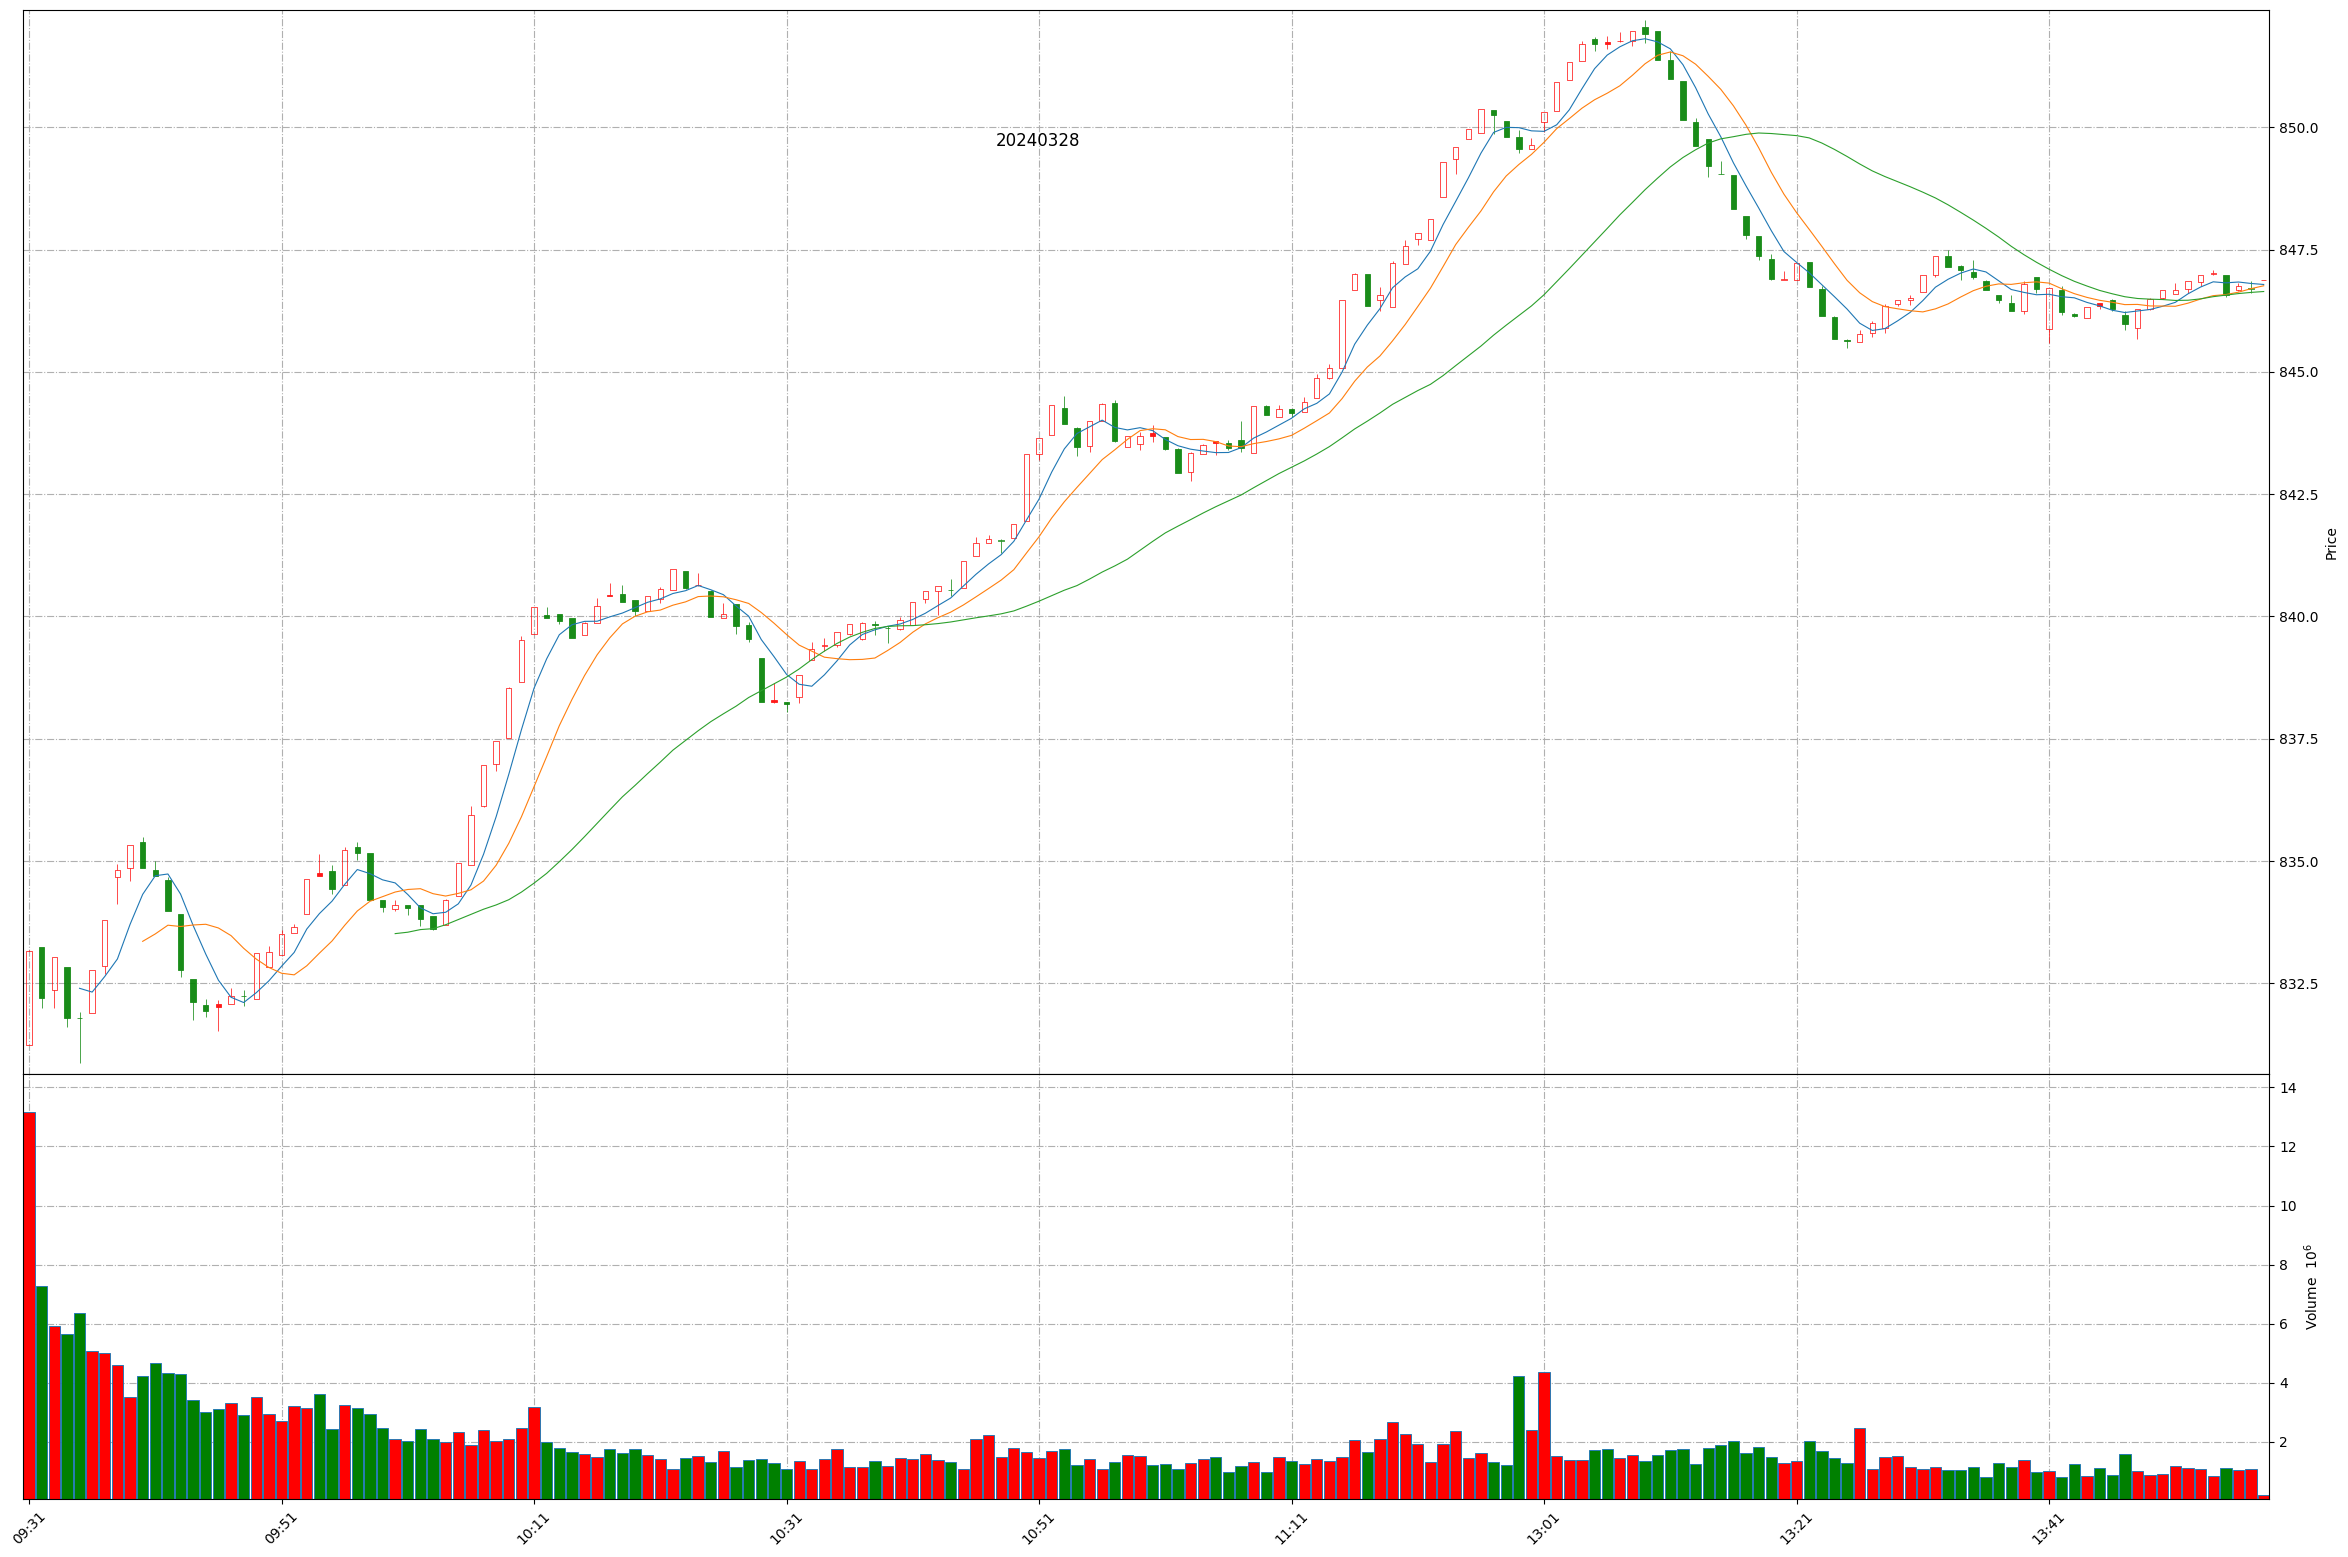
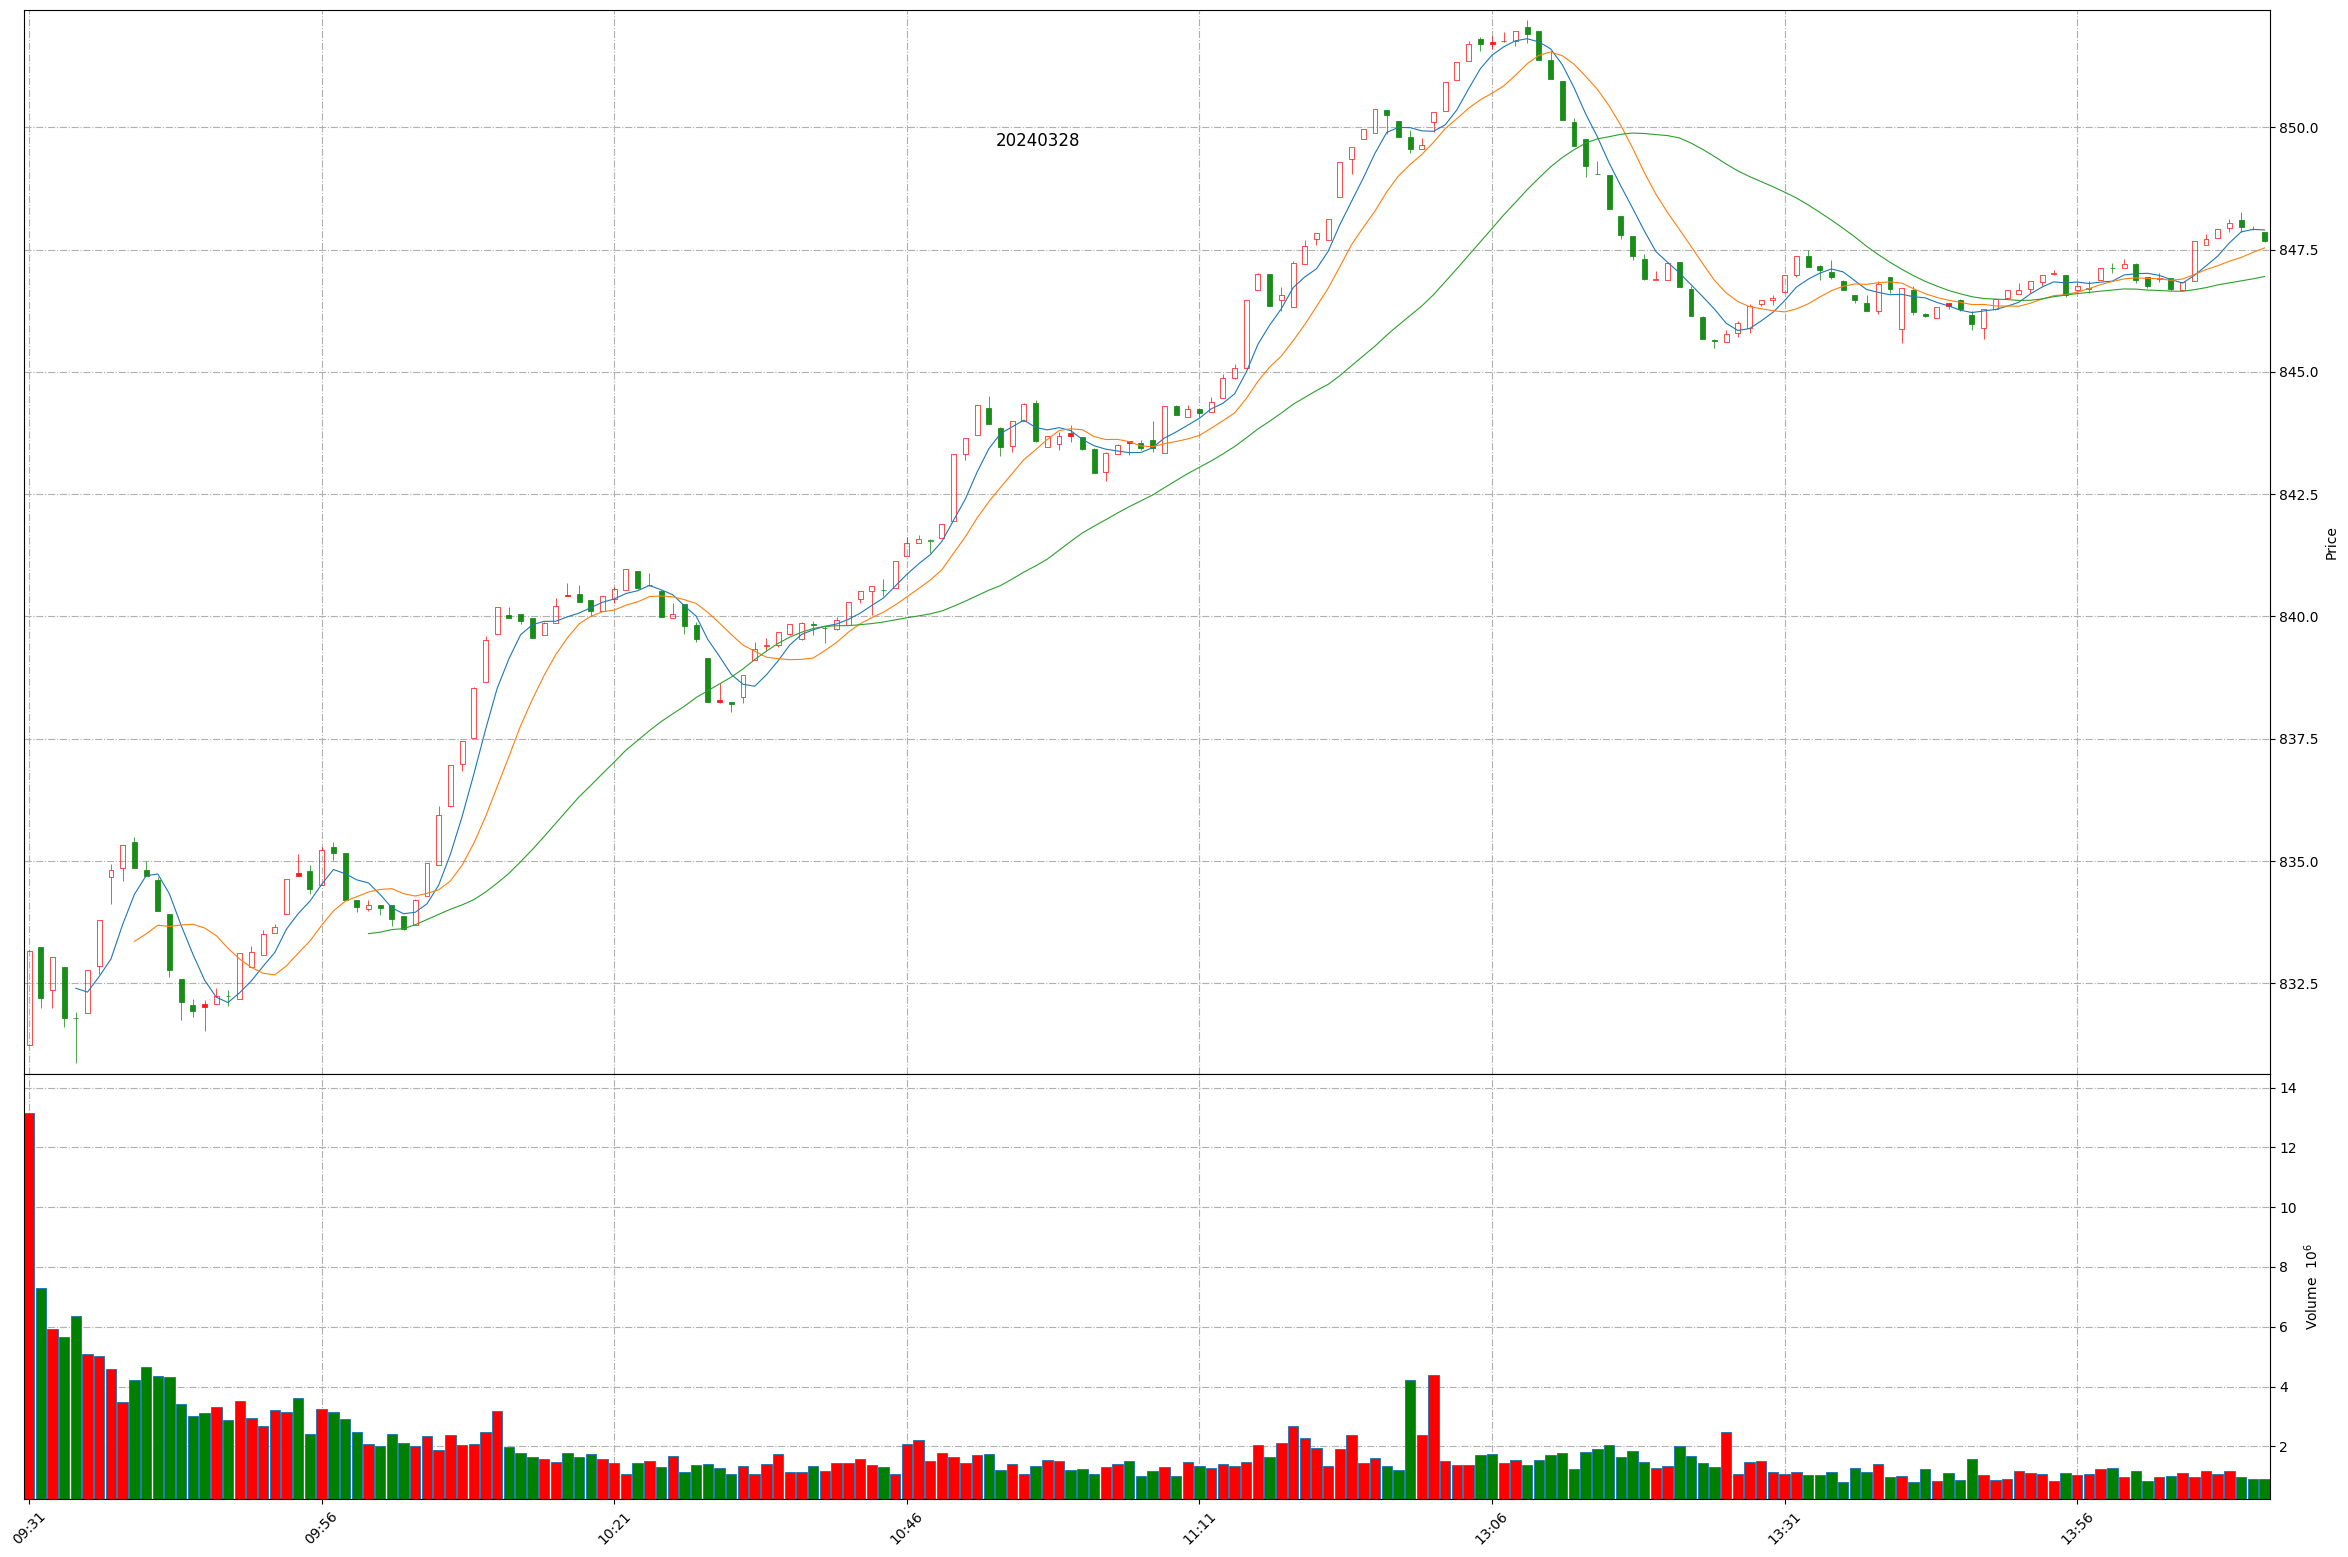
Github action update at 2024-03-28 14:12:08.

diff --git a/README.md b/README.md
@@ -1,11 +1,11 @@
 
 # Daily-A-share-market-quotes 每日 A 股指数（5min 更新）- 20240328
 
-### 上证指数 20240328 13:57
+### 上证指数 20240328 14:12
 ![](./fig/2024/3/20240328-sh000001.png)
 
-### 深证成指 20240328 13:57
+### 深证成指 20240328 14:12
 ![](./fig/2024/3/20240328-sz399001.png)
 
-### 北证50 20240328 13:57
+### 北证50 20240328 14:12
 ![](./fig/2024/3/20240328-bj899050.png)
